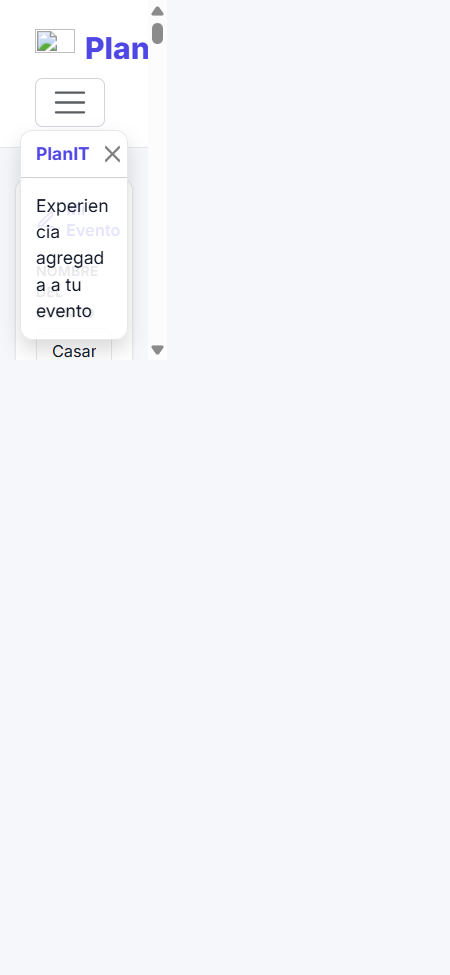
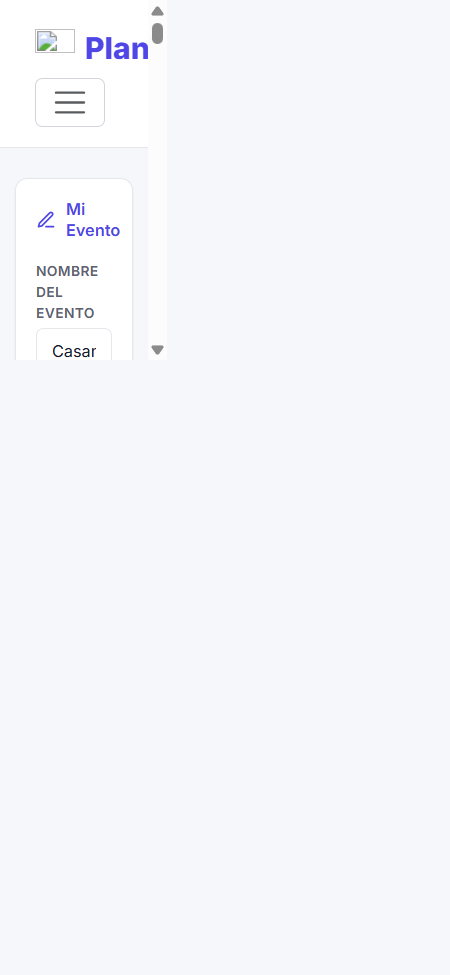
feat(components): auditoria e implementacion integral de modal, toast, overrides css, tc7, tc8 y capturas

Changed region(s): [[0.0622, 0.1231, 0.28, 0.3692]]

diff --git a/index.html b/index.html
@@ -363,14 +363,14 @@
                                 <li><strong>Capacidad:</strong> <span id="modalDetalleServicioCapacidad"></span></li>
                                 <li><strong>Duración:</strong> <span id="modalDetalleServicioDuracion"></span></li>
                                 <li><strong>Incluye:</strong> <span id="modalDetalleServicioIncluye"></span></li>
-                                <li>Proveedor verificado</li>
+                                <li><span>Proveedor verificado</span></li>
                             </ul>
                             <p id="modalDetalleServicioPrecio" class="fw-bold"></p>
                         </div>
                     </div>
                 </div>
                 <div class="modal-footer">
-                    <button type="button" class="btn btn-secondary" data-bs-dismiss="modal">Cerrar</button>
+                    <button type="button" class="btn btn-outline-secondary" data-bs-dismiss="modal">Cerrar</button>
                     <button type="button" class="btn btn-primary btn-sumar-evento" data-bs-dismiss="modal" data-service-title="" data-service-price="">Sumar al Evento</button>
                 </div>
             </div>
@@ -382,9 +382,13 @@
         <div id="toastConfirmacion" class="toast" role="alert" aria-live="assertive" aria-atomic="true" data-bs-delay="4000">
             <div class="toast-header">
                 <strong class="me-auto">PlanIT</strong>
+                <small>· ahora</small>
                 <button type="button" class="btn-close" data-bs-dismiss="toast" aria-label="Cerrar"></button>
             </div>
-            <div class="toast-body" id="toastConfirmacionMensaje">Experiencia agregada a tu evento</div>
+            <div class="toast-body">
+                <p id="toastConfirmacionServicio" class="mb-1"></p>
+                <p id="toastConfirmacionMensaje" class="mb-0">Experiencia agregada a tu evento</p>
+            </div>
         </div>
     </div>
 
@@ -394,6 +398,7 @@
         const toastConfirmacionElement = document.getElementById('toastConfirmacion');
         const toastConfirmacion = bootstrap.Toast.getOrCreateInstance(toastConfirmacionElement);
         const toastConfirmacionMensaje = document.getElementById('toastConfirmacionMensaje');
+        const toastConfirmacionServicio = document.getElementById('toastConfirmacionServicio');
         const modalSumarEvento = modalDetalle.querySelector('.btn-sumar-evento');
 
         modalDetalle.addEventListener('show.bs.modal', (event) => {
@@ -418,6 +423,7 @@
                 const price = button.dataset.servicePrice;
                 toastConfirmacionElement.dataset.serviceTitle = title;
                 toastConfirmacionElement.dataset.servicePrice = price;
+                toastConfirmacionServicio.textContent = `${title} · ${price}`;
                 toastConfirmacionMensaje.textContent = 'Experiencia agregada a tu evento';
                 toastConfirmacion.show();
             });

diff --git a/docs/04-testing/test-case-8.md b/docs/04-testing/test-case-8.md
@@ -6,7 +6,7 @@ Verificar con Playwright MCP la activación, el mensaje exacto, la posición res
 
 ## Ejecución
 
-- **Fecha:** 07/10/2026
+- **Fecha:** 06/10/2026
 - **Rama:** `feature/dev-comp-bootstrap-modal-toast`
 - **Página:** `http://localhost:3000/index.html`
 - **Herramienta:** Playwright MCP con Chromium
@@ -30,9 +30,9 @@ PASS/FAIL con evidencia concreta.
 
 | Dispositivo | Viewport | Toast | Estado |
 |---|---:|---|---|
-| iPhone 14 Pro | 393 × 852 | Mensaje exacto, dentro del viewport, sin solapamiento crítico y auto-hide PASS | ✅ PASS |
-| Samsung Galaxy S23 | 360 × 780 | Mensaje exacto, dentro del viewport, sin solapamiento crítico y auto-hide PASS | ✅ PASS |
-| iPad Air | 820 × 1180 | Mensaje exacto, dentro del viewport y auto-hide PASS | ✅ PASS |
+| iPhone 14 Pro | 393 × 852 | Nombre/precio, `· ahora`, mensaje exacto, dentro del viewport, sin solapamiento crítico y auto-hide PASS | ✅ PASS |
+| Samsung Galaxy S23 | 360 × 780 | Nombre/precio, `· ahora`, mensaje exacto, dentro del viewport, sin solapamiento crítico y auto-hide PASS | ✅ PASS |
+| iPad Air | 820 × 1180 | Nombre/precio, `· ahora`, mensaje exacto, dentro del viewport y auto-hide PASS | ✅ PASS |
 
 ## Resultados
 
@@ -41,7 +41,7 @@ PASS/FAIL con evidencia concreta.
 | Bootstrap JS cargado | ✅ PASS | `window.bootstrap` disponible |
 | Toast desde tarjeta | ✅ PASS | Se mostró al activar `Sumar al Evento` |
 | Toast desde Modal | ✅ PASS | El botón del Modal heredó los datos del servicio y mostró el Toast |
-| Texto exacto del Toast | ✅ PASS | `Experiencia agregada a tu evento` coincide exactamente con el spec |
+| Contenido del Toast | ✅ PASS | Muestra `Gourmet Finger Food · $3.500 / pax`, marca `· ahora` y `Experiencia agregada a tu evento` |
 | Posición mobile | ✅ PASS | El Toast permaneció dentro del viewport y no se superpuso con header o Modal |
 | Overflow horizontal | ✅ PASS | `html.scrollWidth` y `body.scrollWidth` no superaron sus anchos útiles |
 | Auto-hide | ✅ PASS | `data-bs-delay="4000"`; se ocultó después de 4500 ms |
@@ -50,7 +50,7 @@ PASS/FAIL con evidencia concreta.
 ## Criterios funcionales comprobados
 
 - Los botones `.btn-sumar-evento` leen `dataset.serviceTitle` y `dataset.servicePrice` antes de mostrar el Toast.
-- El texto visible es exactamente `Experiencia agregada a tu evento`, sin signos ni texto adicional.
+- El cuerpo muestra el nombre y precio del servicio, junto con el texto exacto `Experiencia agregada a tu evento`.
 - La instancia se muestra mediante `bootstrap.Toast.getOrCreateInstance(...).show()`.
 - El Toast incluye botón de cierre y auto-hide configurado.
 - En mobile no bloquea el header ni el Modal y no provoca overflow horizontal.

diff --git a/docs/04-testing/test-case-7.md b/docs/04-testing/test-case-7.md
@@ -23,7 +23,6 @@ la carga de título, imagen, descripción, capacidad, duración, incluye,
 proveedor verificado y precio, su cierre con Escape, backdrop y btn-close, el
 retorno de foco al botón disparador, la ausencia de overflow horizontal y los
 errores de consola. Devolvé resultados PASS/FAIL con evidencia concreta.
-Devolvé resultados PASS/FAIL con evidencia concreta.
 ```
 
 ## Resultados por dispositivo
